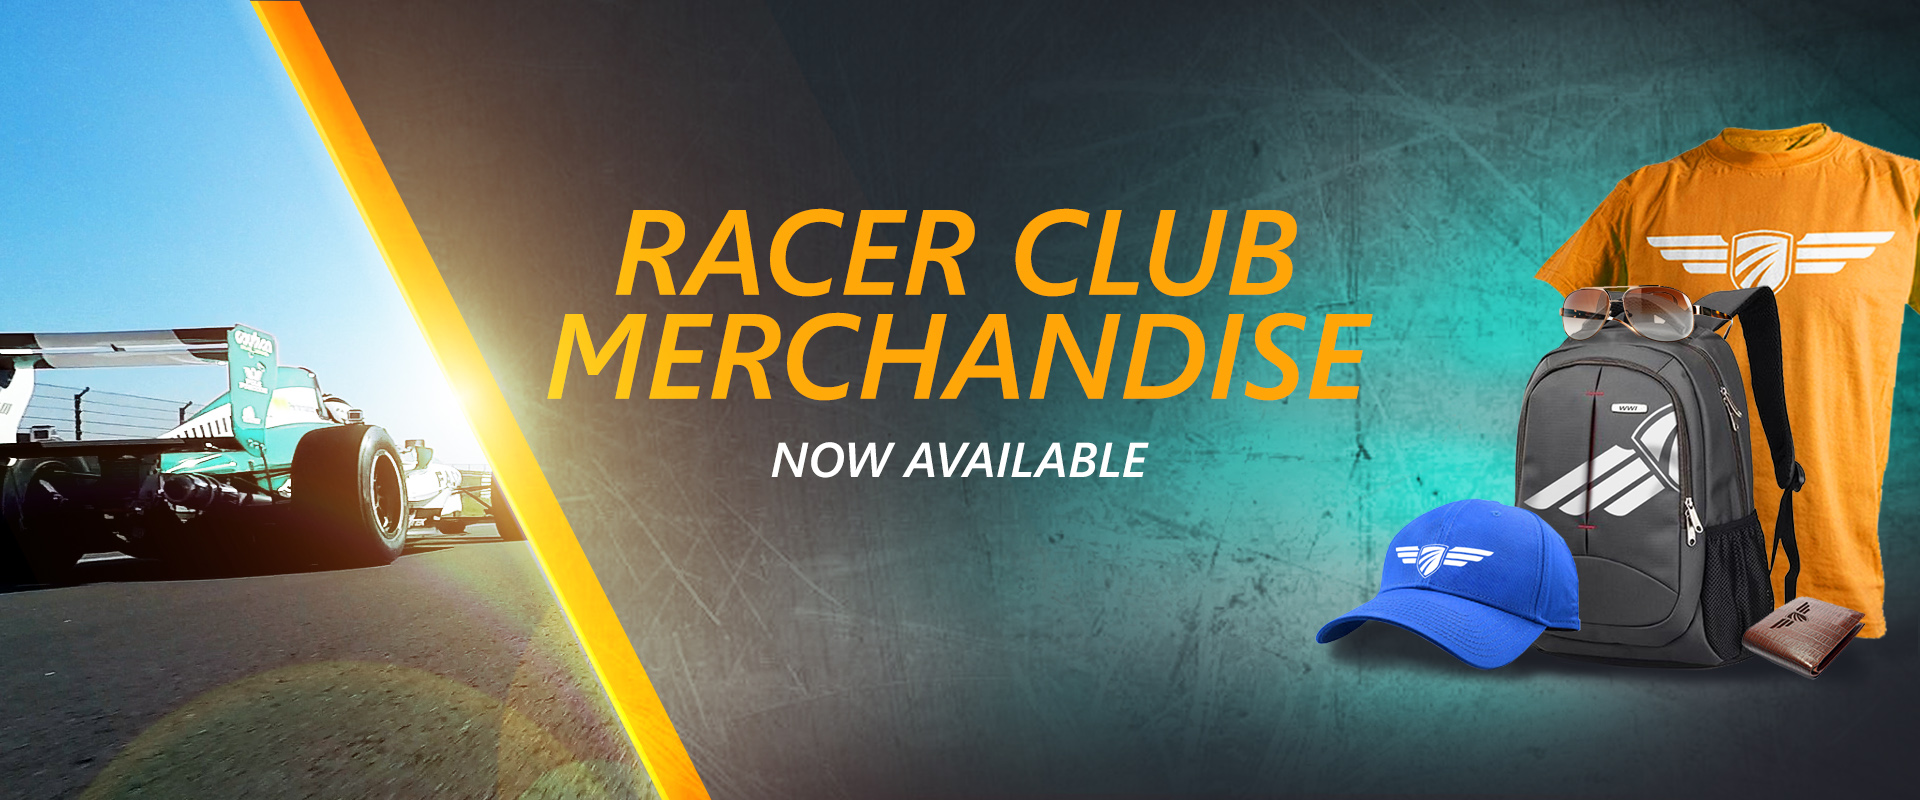
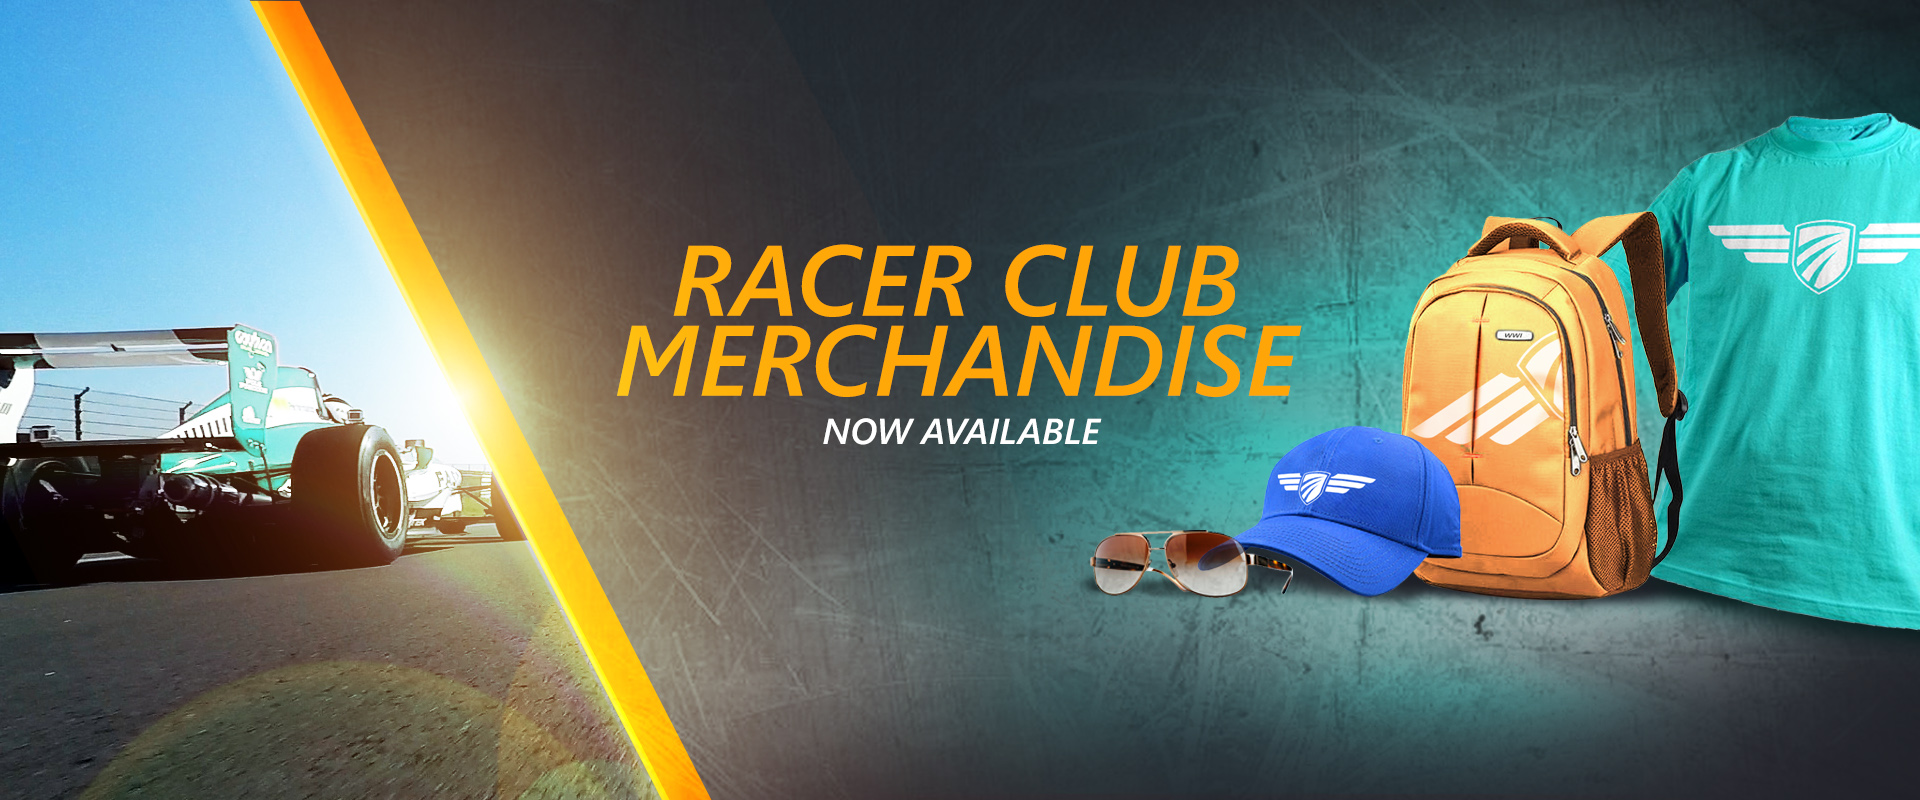
Updated Product Page

Changed region(s): [[0.2812, 0.125, 1.0, 0.875]]

diff --git a/src/PartsUnlimitedWebsite/Content/Home.scss b/src/PartsUnlimitedWebsite/Content/Home.scss
@@ -33,14 +33,14 @@
         .item {
             background: no-repeat right center;
             background-size: cover;
-            height: 500px;
+            height: 400px;
 
             @media screen and (max-width: $size-mobile-max) {
                 height: 200px;
             }
 
             @media screen and (max-width: $size-tablet-max) {
-                height: 400px;
+                height: 300px;
             }
 
             $color-item-primary: #ffa507;

diff --git a/src/PartsUnlimitedWebsite/Controllers/HomeController.cs b/src/PartsUnlimitedWebsite/Controllers/HomeController.cs
@@ -45,11 +45,20 @@ namespace PartsUnlimited.Controllers
                 _cache.Set("newarrivals", newProducts, new MemoryCacheEntryOptions().SetAbsoluteExpiration(TimeSpan.FromMinutes(10)).SetPriority(CacheItemPriority.High));
             }
 
+            List<Product>  WheelsThatMatter = GetProductsById(new int[] { 1039, 11, 10, 9 });
+            List<Product> FunWithColors = GetProductsById(new int[] { 31, 40, 28, 44 });
+            List<Product> GetSporty = GetProductsById(new int[] { 35, 1040, 1034, 1038 });
+            List<Product> HitTrack = GetProductsById(new int[] { 1035, 34, 37, 32 }); ;
+
             var viewModel = new HomeViewModel
             {
                 NewProducts = newProducts,
                 TopSellingProducts = topSellingProducts,
-                CommunityPosts = GetCommunityPosts()
+                CommunityPosts = GetCommunityPosts(),
+                WheelsThatMatter = WheelsThatMatter,
+                FunWithColors = FunWithColors,
+                GetSporty = GetSporty,
+                HitTrack = HitTrack
             };
 
             return View(viewModel);
@@ -74,7 +83,7 @@ namespace PartsUnlimited.Controllers
             //    .ToList();
 
             // Hardcoding for demo fidelity
-            var productIds = new int[] { 36, 10, 35, 9  };
+            var productIds = new int[] { 27, 33, 1034, 1038  };
             return GetProductsById(productIds);
         }
 
@@ -86,7 +95,7 @@ namespace PartsUnlimited.Controllers
             //    .ToList();
 
             // Hardcoding for demo fidelity
-            var productIds = new int[] { 40, 46, 13, 42 };
+            var productIds = new int[] { 45, 40, 13, 1035 };
             return GetProductsById(productIds);
         }
 

diff --git a/src/PartsUnlimitedWebsite/ViewModels/HomeViewModel.cs b/src/PartsUnlimitedWebsite/ViewModels/HomeViewModel.cs
@@ -10,6 +10,10 @@ namespace PartsUnlimited.ViewModels
     {
         public List<Product> NewProducts { get; set; }
         public List<Product> TopSellingProducts { get; set; }
+        public List<Product> WheelsThatMatter { get; set; }
+        public List<Product> FunWithColors  { get; set; }
+        public List<Product> GetSporty { get; set; }
+        public List<Product> HitTrack { get; set; }
         public List<CommunityPost> CommunityPosts { get; set; }
     }
-}
+} 
